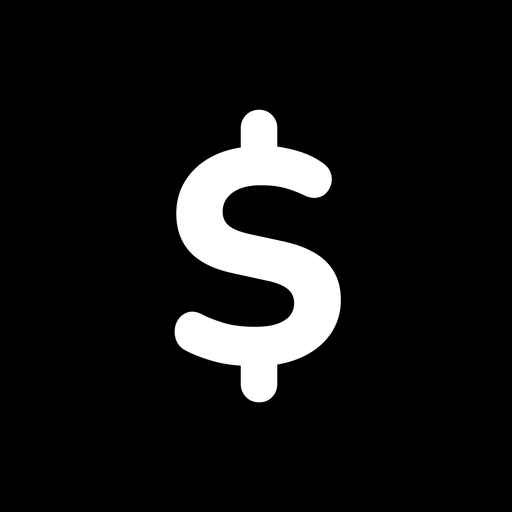
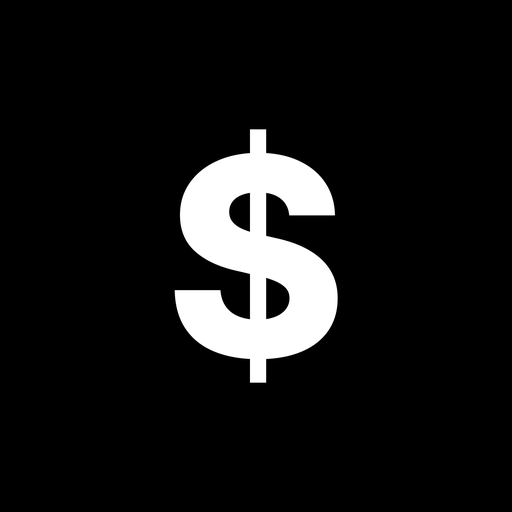
Budget Tracker: local-only week/month tracker with BofA/Capital One/Venmo paste + CSV import

diff --git a/sw.js b/sw.js
@@ -1,4 +1,4 @@
-var CACHE = 'my-budget-v20';
+var CACHE = 'my-budget-v21';
 var FILES = ['./', 'index.html', 'manifest.json', 'icon-192.png', 'icon-512.png', 'fonts/inter-400.woff2', 'fonts/inter-600.woff2', 'fonts/inter-700.woff2', 'fonts/inter-800.woff2'];
 self.addEventListener('install', function (e) { e.waitUntil(caches.open(CACHE).then(function (c) { return c.addAll(FILES); }).then(function () { return self.skipWaiting(); })); });
 self.addEventListener('activate', function (e) { e.waitUntil(caches.keys().then(function (ks) { return Promise.all(ks.map(function (k) { return k !== CACHE ? caches.delete(k) : null; })); }).then(function () { return self.clients.claim(); })); });
